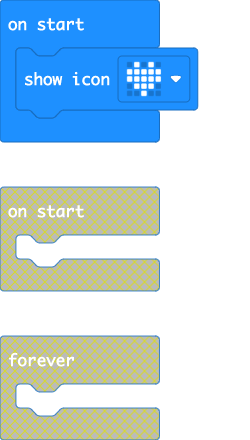
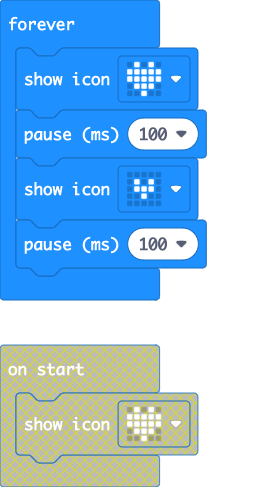
Update main.blocks, main.ts

diff --git a/main.ts b/main.ts
@@ -1,1 +1,6 @@
-basic.showIcon(IconNames.Heart)
+basic.forever(function () {
+    basic.showIcon(IconNames.Heart)
+    basic.pause(100)
+    basic.showIcon(IconNames.SmallHeart)
+    basic.pause(100)
+})
